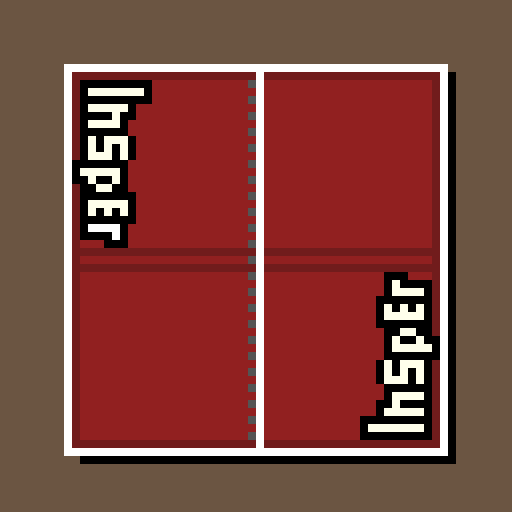
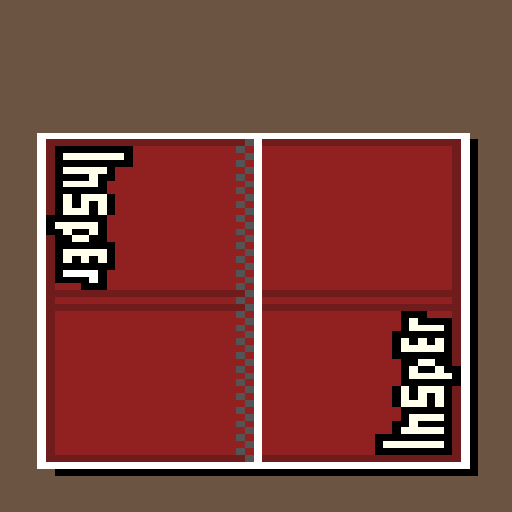
tela final

diff --git a/esqueleto.py b/esqueleto.py
@@ -13,11 +13,11 @@ PADDLE_WIDTH, PADDLE_HEIGHT = 20, 100
 BALL_RADIUS = 7
 
 SCORE_FONT = pygame.font.SysFont("comicsans", 50)
-WINNING_SCORE = 10
+WINNING_SCORE = 5
 
 
 class Paddle:
-    VEL = 4
+    VEL = 5
 
     def __init__(self, x, y, width, height):
         self.x = self.original_x = x
@@ -194,9 +194,13 @@ def main():
         won = False
         if left_score >= WINNING_SCORE:
             won = True
+            background = pygame.image.load(r'imagem/tela final.png')
+            screen.blit(background, (0, 0))
             win_text = "Poloni Ganhou!!!"
         elif right_score >= WINNING_SCORE:
             won = True
+            background = pygame.image.load(r'imagem/tela final.png')
+            screen.blit(background, (0, 0))
             win_text = "Resina Ganhou!!!"
 
         if won:
